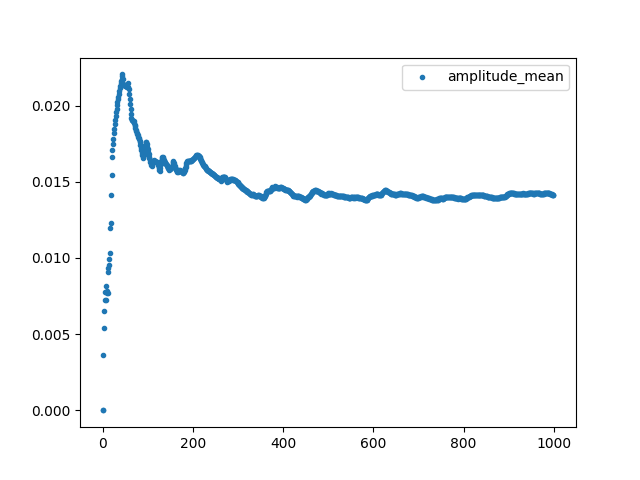
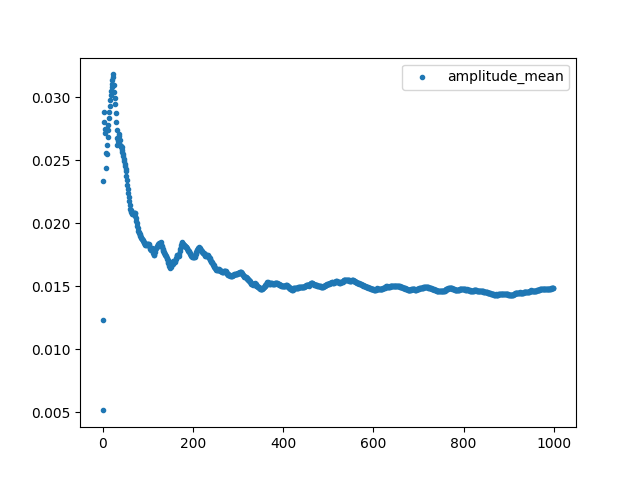
results

diff --git a/run.py b/run.py
@@ -154,6 +154,7 @@ def single_run(kappa,wavenumber, n_steps, method = "simultaneous", field_coeffs=
     #me = metropolis_engine.StaticCovarianceAdaptiveMetropolisEngine(initial_field_coeffs=field_coeffs, covariance_matrix=cov,sampling_width=sampling_width,  initial_amplitude=amplitude, temp=temp) # no need ot calculate covariance matrix for amplitude-only run
     surface_energy = se.calc_surface_energy(amplitude, amplitude_change=True)
     field_energy = se.calc_field_energy(field_coeffs, amplitude, amplitude_change=True)
+    me.m = 1 #number of dimensions of parameter space for adaptive purposes such as target acceptance rate.  actually just 1 degree of freedom for amplitude-only run.
     for i in range(n_steps):
       #print("field energy in", field_energy)
       amplitude, surface_energy, field_energy = me.step_amplitude(amplitude=amplitude, field_coeffs=field_coeffs, field_energy=field_energy, surface_energy=surface_energy, system=se)
@@ -220,8 +221,8 @@ if __name__ == "__main__":
   # specify type, range of plot; title of experiment
   loop_type = ("wavenumber", "kappa")
   experiment_title = loop_type[0] + "_" + loop_type[1]
-  range1 = np.arange(0.005, 1.6, .2)
-  range2 = np.arange(0, 1.1, .2)
+  range1 = np.arange(0.005, 1.6, .05)
+  range2 = np.arange(0, .7, .05)
   n_steps = 1000
 
   assert (alpha <= 0)
